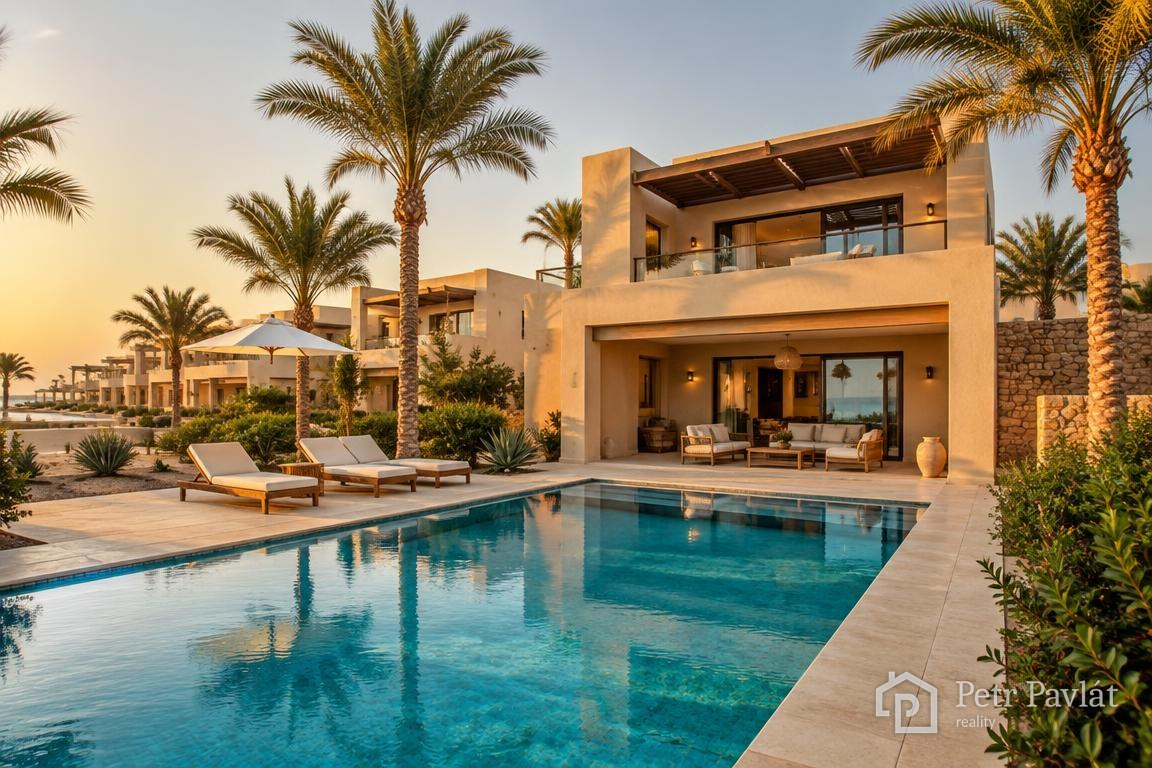
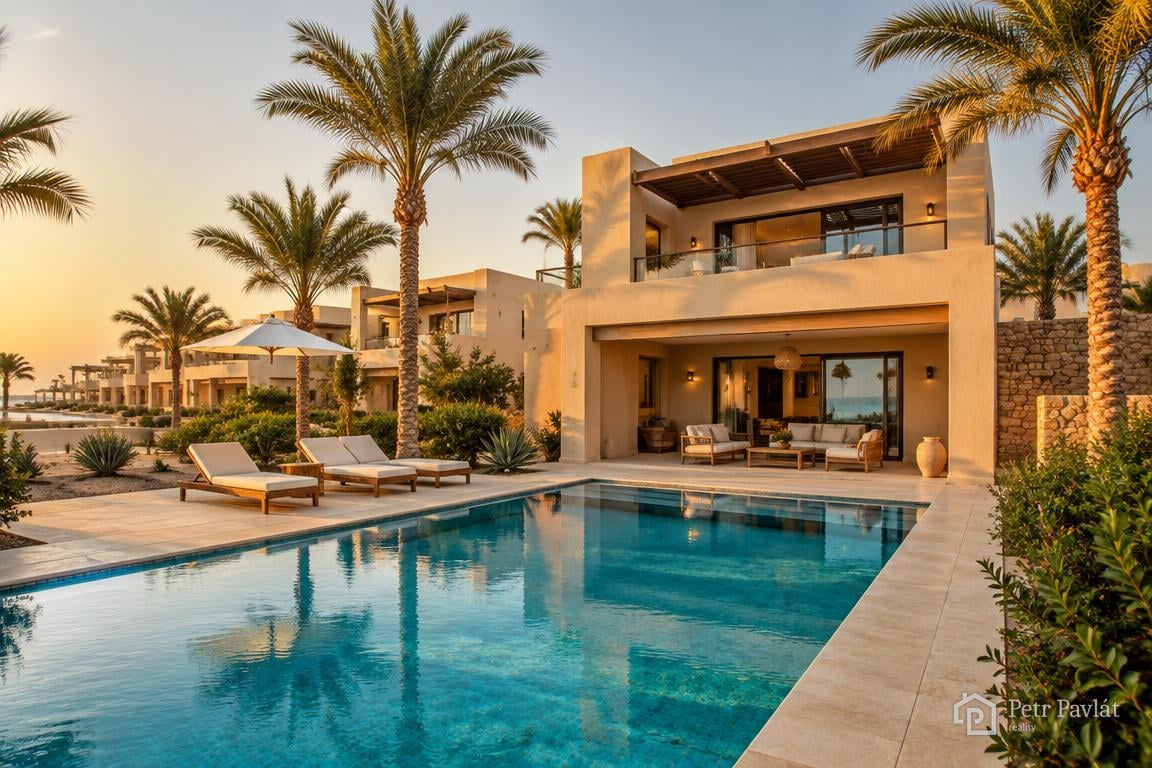
Karta O mně vpravo, menší vodoznak na fotkách
Claude-Session: https://claude.ai/code/session_014WtjTBmpSrBzEY4uwuW9Hd

Changed region(s): [[0.75, 0.875, 0.9688, 0.9688]]

diff --git a/src/server/watermark.server.ts b/src/server/watermark.server.ts
@@ -15,7 +15,7 @@ export async function applyWatermark(
   const image = sharp(bytes, { limitInputPixels: 40_000_000, animated: false });
   const { width = 0, height = 0 } = await image.metadata();
   if (width < 360 || height < 240) return bytes;
-  const markWidth = Math.round(Math.min(width * (width < 800 ? 0.3 : 0.22), 640));
+  const markWidth = Math.round(Math.min(width * (width < 800 ? 0.2 : 0.15), 440));
   const markHeight = Math.round(markWidth * markRatio);
   const margin = Math.round(width * 0.025);
   const mark = await sharp(watermarkPng).resize({ width: markWidth }).toBuffer();
@@ -100,7 +100,7 @@ export function requestedWidth(value: string | null): number | null {
 }
 
 /** Bump when the mark or framing changes so stored copies are made afresh. */
-export const variantVersion = "v1";
+export const variantVersion = "v2";
 
 /** Frames (listings), shrinks (when asked) and marks one public photo. */
 export async function preparePublicPhoto(

diff --git a/src/components/Sections.tsx b/src/components/Sections.tsx
@@ -237,8 +237,7 @@ export function ValuationSection({ standalone = false }: { standalone?: boolean 
 export function AboutTeaser({ full = false }: { full?: boolean }) {
   const Heading = full ? "h1" : "h2";
   return (
-    <div className="grid gap-12 md:grid-cols-[0.85fr_1.15fr] md:items-center md:gap-16">
-      <AboutCard />
+    <div className="grid gap-12 md:grid-cols-[1.15fr_0.85fr] md:items-center md:gap-16">
       <div>
         <p className="eyebrow">
           <SiteText>{"O mně"}</SiteText>
@@ -260,6 +259,7 @@ export function AboutTeaser({ full = false }: { full?: boolean }) {
           </div>
         )}
       </div>
+      <AboutCard />
     </div>
   );
 }
